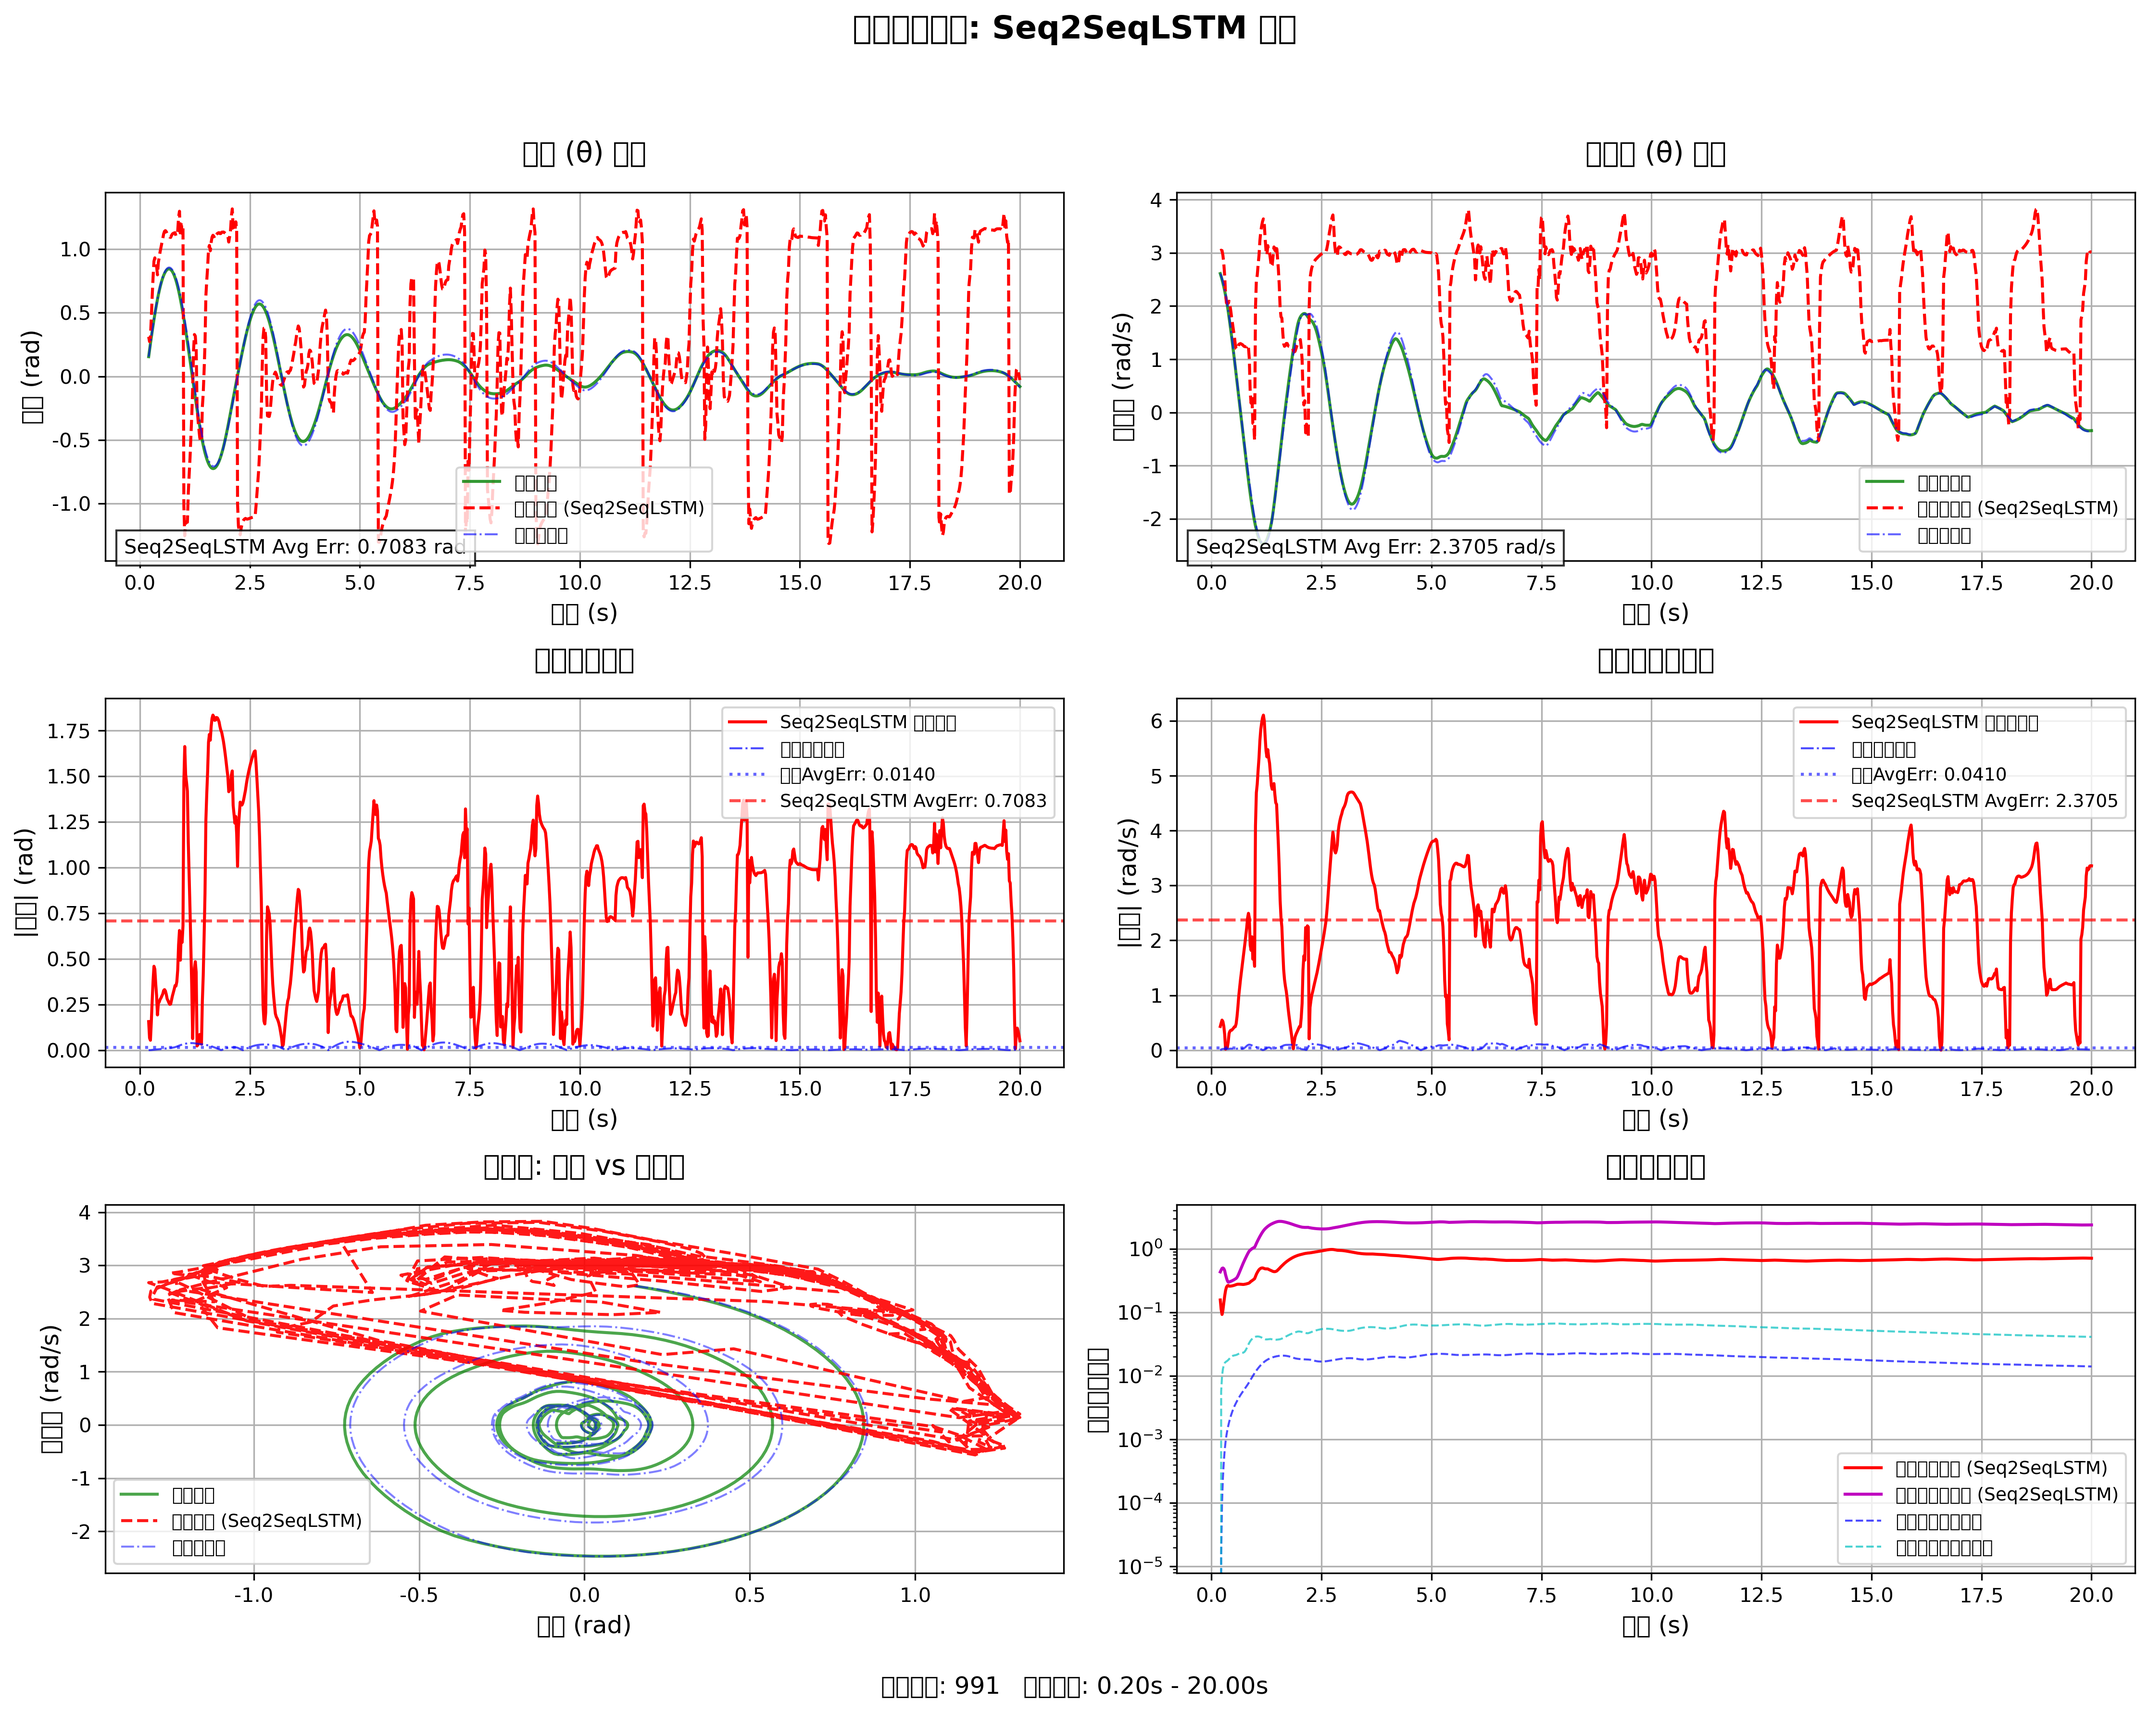
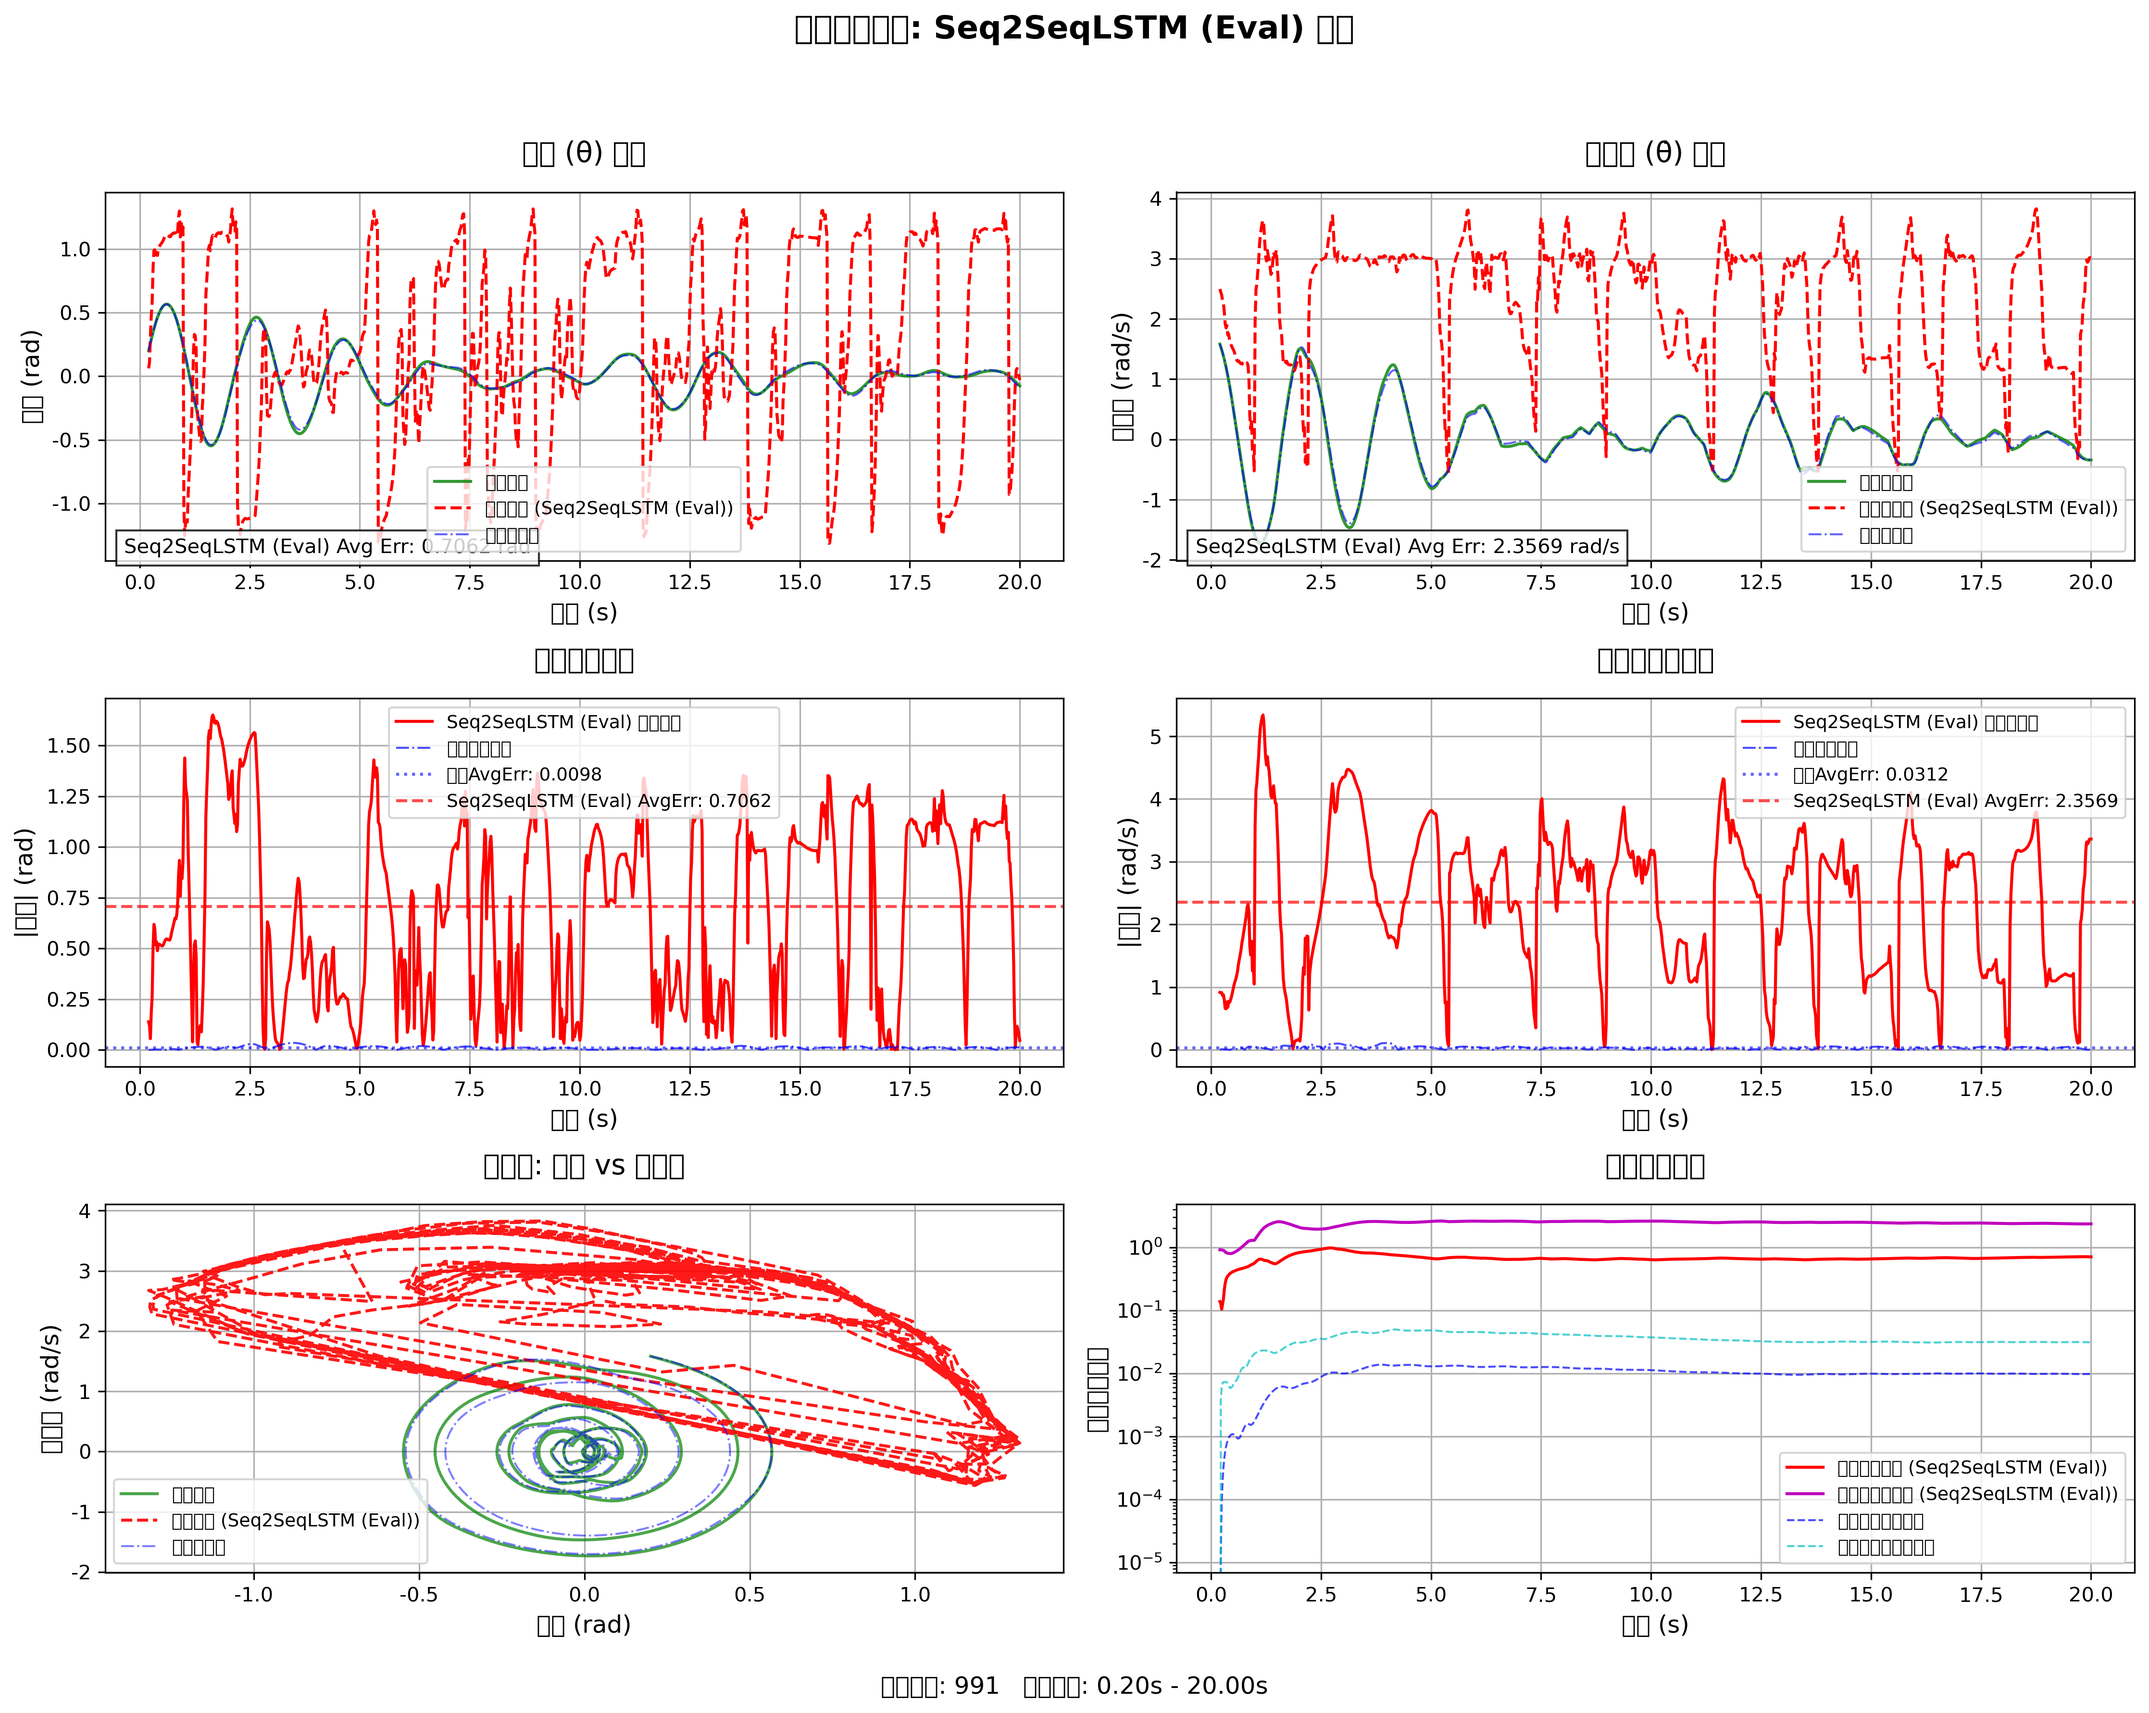
v7.4

diff --git a/evaluate_saved_model.py b/evaluate_saved_model.py
@@ -137,7 +137,7 @@ def evaluate_best_model(model_info_path=config.MODEL_FINAL_PATH,
             eval_data_values = df_eval_segment[['theta', 'theta_dot', 'tau']].values
             # Create sequences using the correct feature engineering flag
             X_eval, _ = create_sequences(eval_data_values, config.INPUT_SEQ_LEN, config.OUTPUT_SEQ_LEN,
-                                         predict_delta=False, use_sincos=use_sincos_for_eval) # Use inferred flag
+                                         use_sincos=use_sincos_for_eval) # Use inferred flag
 
             if len(X_eval) > 0:
                 # Check feature consistency before scaling
@@ -194,7 +194,8 @@ def evaluate_best_model(model_info_path=config.MODEL_FINAL_PATH,
 
 
 if __name__ == "__main__":
-    utils.setup_logging_and_warnings(); utils.setup_chinese_font()
+    utils.setup_logging_and_warnings()
+    utils.setup_chinese_font()
     # --- Configuration for Evaluation ---
     limit_steps = 1000 # Limit prediction length for speed
     # Specify which trained model to evaluate by setting its type from config

diff --git a/config.py b/config.py
@@ -105,7 +105,7 @@ if MODEL_TYPE.lower().startswith("delta"): # Keep this logic, although we set Se
 else: # For Pure... or Seq2Seq... predicting absolute state
     TARGET_SCALER_PATH = os.path.join(MODELS_DIR, f'{MODEL_BASENAME}_output_scaler.pkl')
 
-INPUT_SCALER_FILENAME = f'{MODEL_BASENAME}_input_scaler{"_sincos" if USE_SINCOS_THETA else ""}.pkl'
+INPUT_SCALER_FILENAME = f'{MODEL_BASENAME}_input_scaler.pkl'
 INPUT_SCALER_PATH = os.path.join(MODELS_DIR, INPUT_SCALER_FILENAME)
 
 # --- Evaluation Parameters ---
